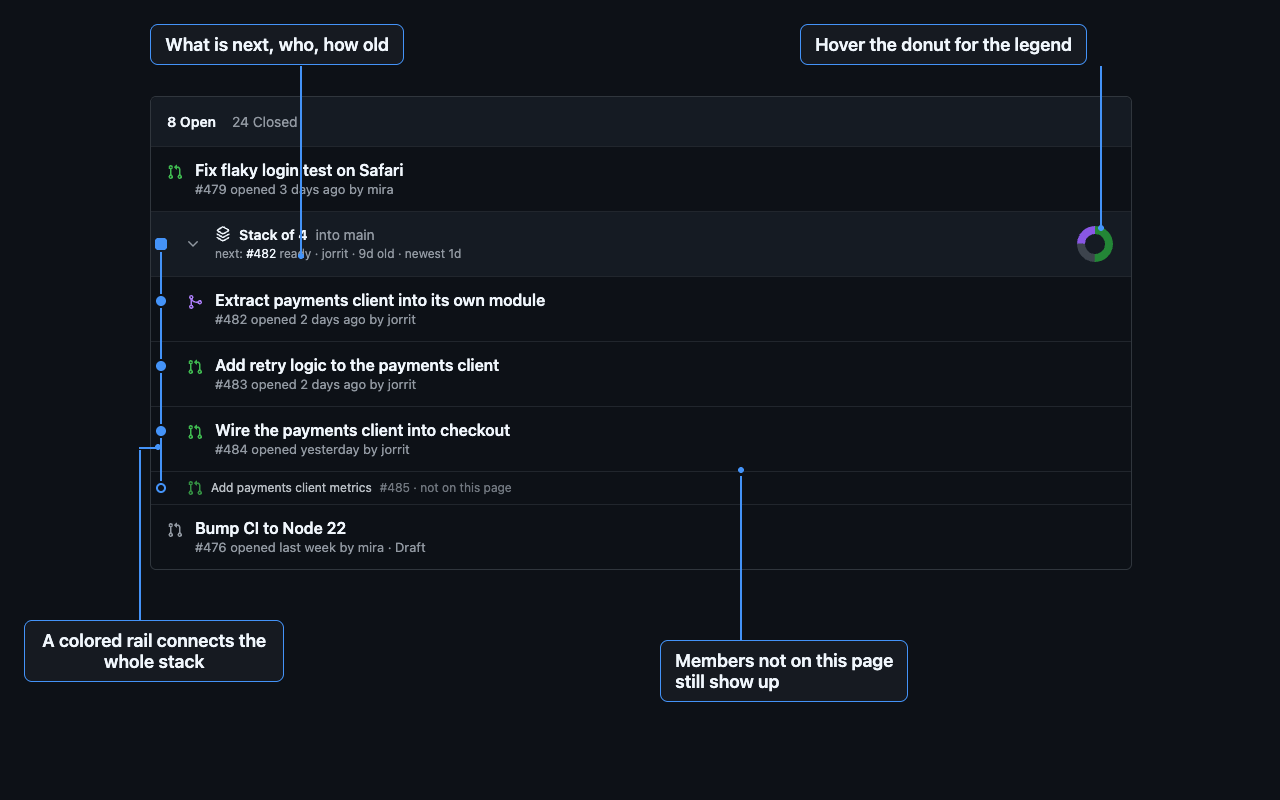
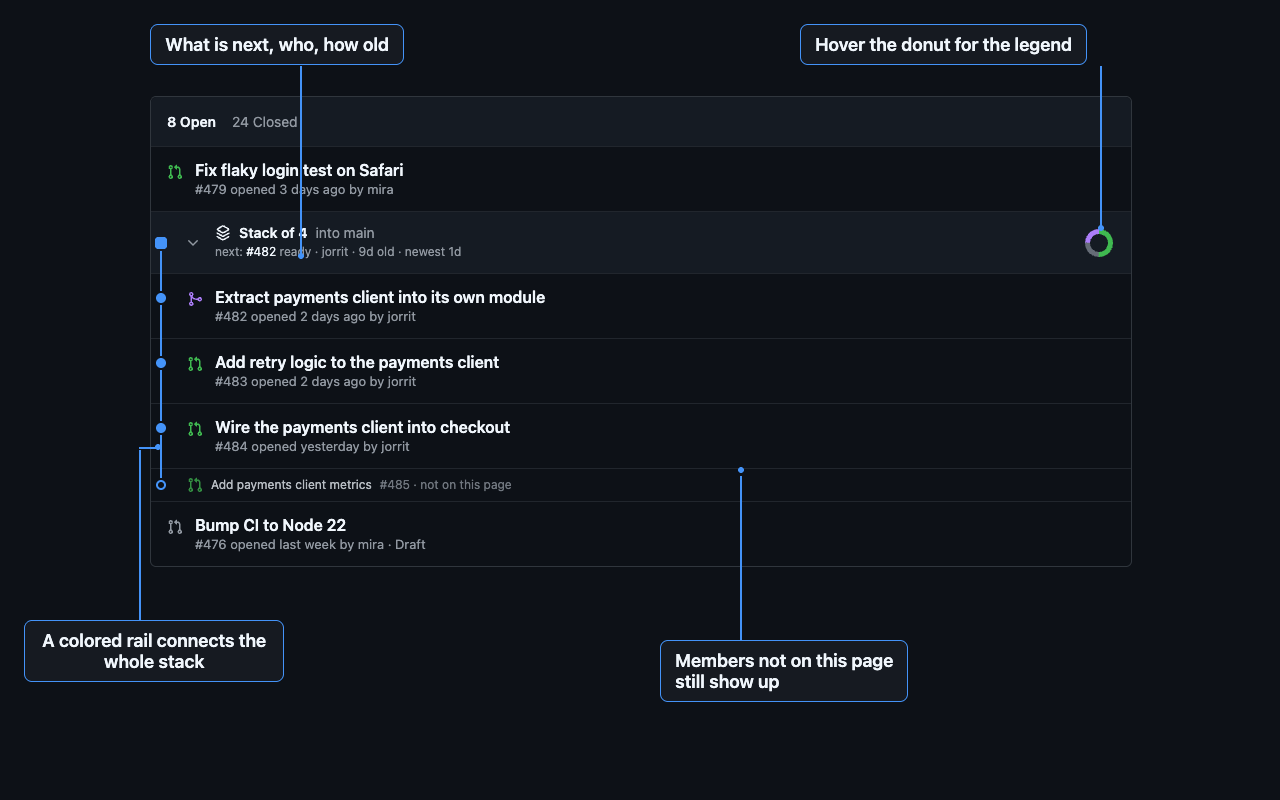
Give the legend its own dot class, and a smaller, brighter ring
The legend's swatch was called ges-dot, which is the rail's own class, so its
background shorthand landed on every rail node and wiped out the stack's
connecting line. It is ges-legend-dot now, and the card is a grid, so dots,
counts and labels line up down their own columns instead of drifting.

The ring drops from 36px to 28px with a 5px stroke, thin enough to sit beside
two lines of text without shouting, and the statuses move from Primer's
bgColor-*-emphasis tokens to the fgColor family - the ones meant to read
against the page rather than sit under white text, so the slices carry on a
dark background.

diff --git a/store/assets.html b/store/assets.html
@@ -47,7 +47,7 @@ section { display: flex; flex-direction: column; gap: 56px; padding: 48px; }
 <span style="display:inline-flex;align-items:center;gap:8px;font-size:14px;font-weight:600;color:#f0f6fc"><svg width="16" height="16" viewBox="0 0 16 16" style="fill:currentColor"><path d="M7.122.392a1.75 1.75 0 0 1 1.756 0l5.003 2.902c.83.481.83 1.68 0 2.162L8.878 8.358a1.75 1.75 0 0 1-1.756 0L2.119 5.456a1.251 1.251 0 0 1 0-2.162ZM8.125 1.69a.248.248 0 0 0-.25 0l-4.63 2.685 4.63 2.685a.248.248 0 0 0 .25 0l4.63-2.685ZM1.601 7.789a.75.75 0 0 1 1.025-.273l5.249 3.044a.248.248 0 0 0 .25 0l5.249-3.044a.75.75 0 0 1 .752 1.298l-5.248 3.044a1.75 1.75 0 0 1-1.756 0L1.874 8.814A.75.75 0 0 1 1.6 7.789Zm0 3.5a.75.75 0 0 1 1.025-.273l5.249 3.044a.248.248 0 0 0 .25 0l5.249-3.044a.75.75 0 0 1 .752 1.298l-5.248 3.044a1.75 1.75 0 0 1-1.756 0l-5.248-3.044a.75.75 0 0 1-.273-1.025Z"></path></svg>Stack of 4<span style="font-weight:400;color:#9198a1"> into main</span></span>
 <div style="display:flex;height:18px;overflow:hidden;font-size:12px;line-height:18px;color:#9198a1"><span>next: <a style="color:#f0f6fc;text-decoration:none">#482</a> ready &middot; jorrit &middot; 9d old &middot; newest 1d</span></div>
 </div>
-<div style="padding:2px"><svg width="36" height="36" viewBox="0 0 36 36" style="display:block"><circle cx="18" cy="18" r="14" fill="none" stroke="#238636" stroke-width="8" stroke-dasharray="43.98 43.98" stroke-dashoffset="0.00" transform="rotate(-90 18 18)"></circle><circle cx="18" cy="18" r="14" fill="none" stroke="#3d444d" stroke-width="8" stroke-dasharray="21.99 65.98" stroke-dashoffset="-43.98" transform="rotate(-90 18 18)"></circle><circle cx="18" cy="18" r="14" fill="none" stroke="#8957e5" stroke-width="8" stroke-dasharray="21.99 65.98" stroke-dashoffset="-65.98" transform="rotate(-90 18 18)"></circle></svg></div>
+<div style="padding:2px"><svg width="28" height="28" viewBox="0 0 28 28" style="display:block"><circle cx="14" cy="14" r="11.5" fill="none" stroke="#3fb950" stroke-width="5" stroke-dasharray="36.13 36.13" stroke-dashoffset="0.00" transform="rotate(-90 14 14)"></circle><circle cx="14" cy="14" r="11.5" fill="none" stroke="#656c76" stroke-width="5" stroke-dasharray="18.06 54.20" stroke-dashoffset="-36.13" transform="rotate(-90 14 14)"></circle><circle cx="14" cy="14" r="11.5" fill="none" stroke="#ab7df8" stroke-width="5" stroke-dasharray="18.06 54.20" stroke-dashoffset="-54.20" transform="rotate(-90 14 14)"></circle></svg></div>
 </div></div>
 <!-- stack rows -->
 <div style="position:relative;display:flex;align-items:flex-start;gap:12px;padding:14px 16px 14px 36px;border-top:1px solid #21262d"><div style="position:absolute;top:0;bottom:0;left:0;width:20px"><span style="position:absolute;left:10px;top:-1px;bottom:calc(100% - 24px);width:2px;margin-left:-1px;background:#4493f8"></span><span style="position:absolute;left:10px;top:24px;bottom:-1px;width:2px;margin-left:-1px;background:#4493f8"></span><span style="position:absolute;left:10px;top:24px;width:10px;height:10px;margin:-5px 0 0 -5px;border-radius:50%;background:#4493f8;box-shadow:0 0 0 2px #0d1117"></span></div><svg width="16" height="16" viewBox="0 0 16 16" style="fill:#ab7df8;flex-shrink:0;margin-top:3px"><path d="M5.45 5.154A4.25 4.25 0 0 0 9.25 7.5h1.378a2.251 2.251 0 1 1 0 1.5H9.25A5.734 5.734 0 0 1 5 7.123v3.505a2.25 2.25 0 1 1-1.5 0V5.372a2.25 2.25 0 1 1 1.95-.218ZM4.25 13.5a.75.75 0 1 0 0-1.5.75.75 0 0 0 0 1.5Zm8.5-4.5a.75.75 0 1 0 0-1.5.75.75 0 0 0 0 1.5ZM5 3.25a.75.75 0 1 0 0 .005V3.25Z"></path></svg><div><a href="#" style="font-size:16px;font-weight:600;color:#f0f6fc">Extract payments client into its own module</a><div style="font-size:13px;color:#9198a1;margin-top:2px">#482 opened 2 days ago by jorrit</div></div></div>
@@ -71,8 +71,8 @@ section { display: flex; flex-direction: column; gap: 56px; padding: 48px; }
 <!-- Shot 2: progress close-up -->
 <div id="screenshot-2-progress" style="width:1280px;height:800px;flex-shrink:0;background:#0d1117;position:relative;overflow:hidden;display:flex;align-items:center;justify-content:center">
 <div style="width:1060px;background:#151b23;border:1px solid #30363d;border-radius:12px;padding:36px 44px;display:flex;flex-direction:column;gap:28px">
-<div style="display:flex;align-items:center;gap:24px"><svg width="28" height="28" viewBox="0 0 16 16" style="fill:#9198a1"><path d="M12.78 5.22a.749.749 0 0 1 0 1.06l-4.25 4.25a.749.749 0 0 1-1.06 0L3.22 6.28a.749.749 0 1 1 1.06-1.06L8 8.939l3.72-3.719a.749.749 0 0 1 1.06 0Z"></path></svg><div style="display:flex;flex-direction:column;gap:6px;flex:1;min-width:0"><span style="display:inline-flex;align-items:center;gap:14px;font-size:30px;font-weight:600;color:#f0f6fc;white-space:nowrap"><svg width="30" height="30" viewBox="0 0 16 16" style="fill:currentColor"><path d="M7.122.392a1.75 1.75 0 0 1 1.756 0l5.003 2.902c.83.481.83 1.68 0 2.162L8.878 8.358a1.75 1.75 0 0 1-1.756 0L2.119 5.456a1.251 1.251 0 0 1 0-2.162ZM8.125 1.69a.248.248 0 0 0-.25 0l-4.63 2.685 4.63 2.685a.248.248 0 0 0 .25 0l4.63-2.685ZM1.601 7.789a.75.75 0 0 1 1.025-.273l5.249 3.044a.248.248 0 0 0 .25 0l5.249-3.044a.75.75 0 0 1 .752 1.298l-5.248 3.044a1.75 1.75 0 0 1-1.756 0L1.874 8.814A.75.75 0 0 1 1.6 7.789Zm0 3.5a.75.75 0 0 1 1.025-.273l5.249 3.044a.248.248 0 0 0 .25 0l5.249-3.044a.75.75 0 0 1 .752 1.298l-5.248 3.044a1.75 1.75 0 0 1-1.756 0l-5.248-3.044a.75.75 0 0 1-.273-1.025Z"></path></svg>Stack of 6<span style="font-weight:400;color:#9198a1"> into main</span></span><div style="display:flex;height:30px;overflow:hidden;font-size:22px;line-height:30px;color:#9198a1"><span>next: <span style="color:#f0f6fc">#482</span> in progress &middot; jorrit +1 &middot; 9d old &middot; newest 1d</span></div></div><div style="flex-shrink:0"><svg width="132" height="132" viewBox="0 0 132 132" style="display:block"><circle cx="66" cy="66" r="51" fill="none" stroke="#da3633" stroke-width="30" stroke-dasharray="53.41 267.04" stroke-dashoffset="0.00" transform="rotate(-90 66 66)"></circle><circle cx="66" cy="66" r="51" fill="none" stroke="#9e6a03" stroke-width="30" stroke-dasharray="53.41 267.04" stroke-dashoffset="-53.41" transform="rotate(-90 66 66)"></circle><circle cx="66" cy="66" r="51" fill="none" stroke="#238636" stroke-width="30" stroke-dasharray="53.41 267.04" stroke-dashoffset="-106.81" transform="rotate(-90 66 66)"></circle><circle cx="66" cy="66" r="51" fill="none" stroke="#656c76" stroke-width="30" stroke-dasharray="53.41 267.04" stroke-dashoffset="-160.22" transform="rotate(-90 66 66)"></circle><circle cx="66" cy="66" r="51" fill="none" stroke="#8957e5" stroke-width="30" stroke-dasharray="106.81 213.63" stroke-dashoffset="-213.63" transform="rotate(-90 66 66)"></circle></svg></div></div>
-<div style="display:flex;align-items:flex-start;gap:32px"><div style="flex:1;font-size:20px;line-height:1.55;color:#9198a1">Merged, ready, in progress, blocked, draft, and the members GitHub left off this page. Hover the donut for the legend, a colour and a count per status.</div><div style="display:flex;flex-direction:column;gap:12px;font-size:22px;color:#f0f6fc;background:#0d1117;border:1px solid #3d444d;border-radius:6px;padding:14px 18px"><span style="display:inline-flex;align-items:center;gap:10px"><span style="width:14px;height:14px;border-radius:50%;background:#8957e5"></span>2 merged</span><span style="display:inline-flex;align-items:center;gap:10px"><span style="width:14px;height:14px;border-radius:50%;background:#238636"></span>1 ready</span><span style="display:inline-flex;align-items:center;gap:10px"><span style="width:14px;height:14px;border-radius:50%;background:#9e6a03"></span>1 in progress</span><span style="display:inline-flex;align-items:center;gap:10px"><span style="width:14px;height:14px;border-radius:50%;background:#da3633"></span>1 blocked</span><span style="display:inline-flex;align-items:center;gap:10px"><span style="width:14px;height:14px;border-radius:50%;background:#656c76"></span>1 draft</span></div></div>
+<div style="display:flex;align-items:center;gap:24px"><svg width="28" height="28" viewBox="0 0 16 16" style="fill:#9198a1"><path d="M12.78 5.22a.749.749 0 0 1 0 1.06l-4.25 4.25a.749.749 0 0 1-1.06 0L3.22 6.28a.749.749 0 1 1 1.06-1.06L8 8.939l3.72-3.719a.749.749 0 0 1 1.06 0Z"></path></svg><div style="display:flex;flex-direction:column;gap:6px;flex:1;min-width:0"><span style="display:inline-flex;align-items:center;gap:14px;font-size:30px;font-weight:600;color:#f0f6fc;white-space:nowrap"><svg width="30" height="30" viewBox="0 0 16 16" style="fill:currentColor"><path d="M7.122.392a1.75 1.75 0 0 1 1.756 0l5.003 2.902c.83.481.83 1.68 0 2.162L8.878 8.358a1.75 1.75 0 0 1-1.756 0L2.119 5.456a1.251 1.251 0 0 1 0-2.162ZM8.125 1.69a.248.248 0 0 0-.25 0l-4.63 2.685 4.63 2.685a.248.248 0 0 0 .25 0l4.63-2.685ZM1.601 7.789a.75.75 0 0 1 1.025-.273l5.249 3.044a.248.248 0 0 0 .25 0l5.249-3.044a.75.75 0 0 1 .752 1.298l-5.248 3.044a1.75 1.75 0 0 1-1.756 0L1.874 8.814A.75.75 0 0 1 1.6 7.789Zm0 3.5a.75.75 0 0 1 1.025-.273l5.249 3.044a.248.248 0 0 0 .25 0l5.249-3.044a.75.75 0 0 1 .752 1.298l-5.248 3.044a1.75 1.75 0 0 1-1.756 0l-5.248-3.044a.75.75 0 0 1-.273-1.025Z"></path></svg>Stack of 6<span style="font-weight:400;color:#9198a1"> into main</span></span><div style="display:flex;height:30px;overflow:hidden;font-size:22px;line-height:30px;color:#9198a1"><span>next: <span style="color:#f0f6fc">#482</span> in progress &middot; jorrit +1 &middot; 9d old &middot; newest 1d</span></div></div><div style="flex-shrink:0"><svg width="132" height="132" viewBox="0 0 132 132" style="display:block"><circle cx="66" cy="66" r="54" fill="none" stroke="#f85149" stroke-width="24" stroke-dasharray="56.55 282.75" stroke-dashoffset="0.00" transform="rotate(-90 66 66)"></circle><circle cx="66" cy="66" r="54" fill="none" stroke="#d29922" stroke-width="24" stroke-dasharray="56.55 282.75" stroke-dashoffset="-56.55" transform="rotate(-90 66 66)"></circle><circle cx="66" cy="66" r="54" fill="none" stroke="#3fb950" stroke-width="24" stroke-dasharray="56.55 282.75" stroke-dashoffset="-113.09" transform="rotate(-90 66 66)"></circle><circle cx="66" cy="66" r="54" fill="none" stroke="#9198a1" stroke-width="24" stroke-dasharray="56.55 282.75" stroke-dashoffset="-169.64" transform="rotate(-90 66 66)"></circle><circle cx="66" cy="66" r="54" fill="none" stroke="#ab7df8" stroke-width="24" stroke-dasharray="113.09 226.20" stroke-dashoffset="-226.20" transform="rotate(-90 66 66)"></circle></svg></div></div>
+<div style="display:flex;align-items:flex-start;gap:32px"><div style="flex:1;font-size:20px;line-height:1.55;color:#9198a1">Merged, ready, in progress, blocked, draft, and the members GitHub left off this page. Hover the donut for the legend, a colour and a count per status.</div><div style="display:grid;grid-template-columns:auto auto auto;align-items:center;gap:8px 14px;font-size:22px;color:#f0f6fc;background:#0d1117;border:1px solid #3d444d;border-radius:6px;padding:14px 18px"><span style="width:14px;height:14px;border-radius:50%;background:#ab7df8"></span><span style="justify-self:end">2</span><span style="color:#9198a1">merged</span><span style="width:14px;height:14px;border-radius:50%;background:#3fb950"></span><span style="justify-self:end">1</span><span style="color:#9198a1">ready</span><span style="width:14px;height:14px;border-radius:50%;background:#d29922"></span><span style="justify-self:end">1</span><span style="color:#9198a1">in progress</span><span style="width:14px;height:14px;border-radius:50%;background:#f85149"></span><span style="justify-self:end">1</span><span style="color:#9198a1">blocked</span><span style="width:14px;height:14px;border-radius:50%;background:#9198a1"></span><span style="justify-self:end">1</span><span style="color:#9198a1">draft</span></div></div>
 </div>
 <div style="position:absolute;top:120px;left:110px;background:rgba(22,27,34,0.95);border:1px solid #4493f8;border-radius:8px;padding:9px 14px;font-size:18px;font-weight:600;color:#f0f6fc">Every stack header shows where the stack stands</div>
 <div style="position:absolute;bottom:110px;right:130px;background:rgba(22,27,34,0.95);border:1px solid #4493f8;border-radius:8px;padding:9px 14px;font-size:18px;font-weight:600;color:#f0f6fc">Ready = no requested changes, no failing checks, not a draft</div>
@@ -90,7 +90,7 @@ section { display: flex; flex-direction: column; gap: 56px; padding: 48px; }
 <span style="display:inline-flex;align-items:center;gap:8px;font-size:14px;font-weight:600;color:#f0f6fc"><svg width="16" height="16" viewBox="0 0 16 16" style="fill:currentColor"><path d="M7.122.392a1.75 1.75 0 0 1 1.756 0l5.003 2.902c.83.481.83 1.68 0 2.162L8.878 8.358a1.75 1.75 0 0 1-1.756 0L2.119 5.456a1.251 1.251 0 0 1 0-2.162ZM8.125 1.69a.248.248 0 0 0-.25 0l-4.63 2.685 4.63 2.685a.248.248 0 0 0 .25 0l4.63-2.685ZM1.601 7.789a.75.75 0 0 1 1.025-.273l5.249 3.044a.248.248 0 0 0 .25 0l5.249-3.044a.75.75 0 0 1 .752 1.298l-5.248 3.044a1.75 1.75 0 0 1-1.756 0L1.874 8.814A.75.75 0 0 1 1.6 7.789Zm0 3.5a.75.75 0 0 1 1.025-.273l5.249 3.044a.248.248 0 0 0 .25 0l5.249-3.044a.75.75 0 0 1 .752 1.298l-5.248 3.044a1.75 1.75 0 0 1-1.756 0l-5.248-3.044a.75.75 0 0 1-.273-1.025Z"></path></svg>Stack of 4<span style="font-weight:400;color:#9198a1"> into main</span></span>
 <div style="display:flex;height:18px;overflow:hidden;font-size:12px;line-height:18px;color:#9198a1"><span>next: <a style="color:#f0f6fc;text-decoration:none">#483</a> ready &middot; jorrit +1 &middot; 6d old &middot; newest 21h</span></div>
 </div>
-<div style="padding:2px"><svg width="36" height="36" viewBox="0 0 36 36" style="display:block"><circle cx="18" cy="18" r="14" fill="none" stroke="#238636" stroke-width="8" stroke-dasharray="65.98 21.99" stroke-dashoffset="0.00" transform="rotate(-90 18 18)"></circle><circle cx="18" cy="18" r="14" fill="none" stroke="#8957e5" stroke-width="8" stroke-dasharray="21.99 65.98" stroke-dashoffset="-65.98" transform="rotate(-90 18 18)"></circle></svg></div>
+<div style="padding:2px"><svg width="28" height="28" viewBox="0 0 28 28" style="display:block"><circle cx="14" cy="14" r="11.5" fill="none" stroke="#3fb950" stroke-width="5" stroke-dasharray="54.20 18.06" stroke-dashoffset="0.00" transform="rotate(-90 14 14)"></circle><circle cx="14" cy="14" r="11.5" fill="none" stroke="#ab7df8" stroke-width="5" stroke-dasharray="18.06 54.20" stroke-dashoffset="-54.20" transform="rotate(-90 14 14)"></circle></svg></div>
 </div></div>
 <div style="position:relative;padding:12px 16px 12px 36px;border-top:1px solid #21262d;background:#151b23;font-size:13px;color:#9198a1">
 <div style="position:absolute;top:0;bottom:0;left:0;width:20px"><span style="position:absolute;left:10px;top:50%;width:12px;height:12px;margin:-6px 0 0 -6px;border-radius:3px;background:#ab7df8;box-shadow:0 0 0 2px #151b23"></span></div>
@@ -100,7 +100,7 @@ section { display: flex; flex-direction: column; gap: 56px; padding: 48px; }
 <span style="display:inline-flex;align-items:center;gap:8px;font-size:14px;font-weight:600;color:#f0f6fc"><svg width="16" height="16" viewBox="0 0 16 16" style="fill:currentColor"><path d="M7.122.392a1.75 1.75 0 0 1 1.756 0l5.003 2.902c.83.481.83 1.68 0 2.162L8.878 8.358a1.75 1.75 0 0 1-1.756 0L2.119 5.456a1.251 1.251 0 0 1 0-2.162ZM8.125 1.69a.248.248 0 0 0-.25 0l-4.63 2.685 4.63 2.685a.248.248 0 0 0 .25 0l4.63-2.685ZM1.601 7.789a.75.75 0 0 1 1.025-.273l5.249 3.044a.248.248 0 0 0 .25 0l5.249-3.044a.75.75 0 0 1 .752 1.298l-5.248 3.044a1.75 1.75 0 0 1-1.756 0L1.874 8.814A.75.75 0 0 1 1.6 7.789Zm0 3.5a.75.75 0 0 1 1.025-.273l5.249 3.044a.248.248 0 0 0 .25 0l5.249-3.044a.75.75 0 0 1 .752 1.298l-5.248 3.044a1.75 1.75 0 0 1-1.756 0l-5.248-3.044a.75.75 0 0 1-.273-1.025Z"></path></svg>Stack of 3<span style="font-weight:400;color:#9198a1"> into develop</span></span>
 <div style="display:flex;height:18px;overflow:hidden;font-size:12px;line-height:18px;color:#9198a1"><span>next: <a style="color:#f0f6fc;text-decoration:none">#476</a> draft &middot; mira &middot; 8d old &middot; newest 2d</span></div>
 </div>
-<div style="padding:2px"><svg width="36" height="36" viewBox="0 0 36 36" style="display:block"><circle cx="18" cy="18" r="14" fill="none" stroke="#9e6a03" stroke-width="8" stroke-dasharray="29.32 58.64" stroke-dashoffset="0.00" transform="rotate(-90 18 18)"></circle><circle cx="18" cy="18" r="14" fill="none" stroke="#656c76" stroke-width="8" stroke-dasharray="58.64 29.32" stroke-dashoffset="-29.32" transform="rotate(-90 18 18)"></circle></svg></div>
+<div style="padding:2px"><svg width="28" height="28" viewBox="0 0 28 28" style="display:block"><circle cx="14" cy="14" r="11.5" fill="none" stroke="#d29922" stroke-width="5" stroke-dasharray="24.08 48.17" stroke-dashoffset="0.00" transform="rotate(-90 14 14)"></circle><circle cx="14" cy="14" r="11.5" fill="none" stroke="#9198a1" stroke-width="5" stroke-dasharray="48.17 24.08" stroke-dashoffset="-24.08" transform="rotate(-90 14 14)"></circle></svg></div>
 </div></div>
 <div style="position:relative;display:flex;align-items:flex-start;gap:12px;padding:14px 16px;border-top:1px solid #21262d"><svg width="16" height="16" viewBox="0 0 16 16" style="fill:#3fb950;flex-shrink:0;margin-top:3px"><path d="M1.5 3.25a2.25 2.25 0 1 1 3 2.122v5.256a2.251 2.251 0 1 1-1.5 0V5.372A2.25 2.25 0 0 1 1.5 3.25Zm5.677-.177L9.573.677A.25.25 0 0 1 10 .854V2.5h1A2.5 2.5 0 0 1 13.5 5v5.628a2.251 2.251 0 1 1-1.5 0V5a1 1 0 0 0-1-1h-1v1.646a.25.25 0 0 1-.427.177L7.177 3.427a.25.25 0 0 1 0-.354ZM3.75 2.5a.75.75 0 1 0 0 1.5.75.75 0 0 0 0-1.5Zm0 9.5a.75.75 0 1 0 0 1.5.75.75 0 0 0 0-1.5Zm8.25.75a.75.75 0 1 0 1.5 0 .75.75 0 0 0-1.5 0Z"></path></svg><div><a href="#" style="font-size:16px;font-weight:600;color:#f0f6fc">Fix flaky login test on Safari</a><div style="font-size:13px;color:#9198a1;margin-top:2px">#479 opened 3 days ago by mira</div></div></div>
 </div>
@@ -142,7 +142,7 @@ section { display: flex; flex-direction: column; gap: 56px; padding: 48px; }
 <span style="display:inline-flex;align-items:center;gap:8px;font-size:14px;font-weight:600;color:#f0f6fc"><svg width="16" height="16" viewBox="0 0 16 16" style="fill:currentColor"><path d="M7.122.392a1.75 1.75 0 0 1 1.756 0l5.003 2.902c.83.481.83 1.68 0 2.162L8.878 8.358a1.75 1.75 0 0 1-1.756 0L2.119 5.456a1.251 1.251 0 0 1 0-2.162ZM8.125 1.69a.248.248 0 0 0-.25 0l-4.63 2.685 4.63 2.685a.248.248 0 0 0 .25 0l4.63-2.685ZM1.601 7.789a.75.75 0 0 1 1.025-.273l5.249 3.044a.248.248 0 0 0 .25 0l5.249-3.044a.75.75 0 0 1 .752 1.298l-5.248 3.044a1.75 1.75 0 0 1-1.756 0L1.874 8.814A.75.75 0 0 1 1.6 7.789Zm0 3.5a.75.75 0 0 1 1.025-.273l5.249 3.044a.248.248 0 0 0 .25 0l5.249-3.044a.75.75 0 0 1 .752 1.298l-5.248 3.044a1.75 1.75 0 0 1-1.756 0l-5.248-3.044a.75.75 0 0 1-.273-1.025Z"></path></svg>Stack of 3<span style="font-weight:400;color:#9198a1"> into main</span></span>
 <div style="display:flex;height:18px;overflow:hidden;font-size:12px;line-height:18px;color:#9198a1"><span>next: <a style="color:#f0f6fc;text-decoration:none">#484</a> ready &middot; jorrit &middot; 5d old &middot; newest 1d</span></div>
 </div>
-<div style="padding:2px"><svg width="36" height="36" viewBox="0 0 36 36" style="display:block"><circle cx="18" cy="18" r="14" fill="none" stroke="#238636" stroke-width="8" stroke-dasharray="58.64 29.32" stroke-dashoffset="0.00" transform="rotate(-90 18 18)"></circle><circle cx="18" cy="18" r="14" fill="none" stroke="#8957e5" stroke-width="8" stroke-dasharray="29.32 58.64" stroke-dashoffset="-58.64" transform="rotate(-90 18 18)"></circle></svg></div>
+<div style="padding:2px"><svg width="28" height="28" viewBox="0 0 28 28" style="display:block"><circle cx="14" cy="14" r="11.5" fill="none" stroke="#3fb950" stroke-width="5" stroke-dasharray="48.17 24.08" stroke-dashoffset="0.00" transform="rotate(-90 14 14)"></circle><circle cx="14" cy="14" r="11.5" fill="none" stroke="#ab7df8" stroke-width="5" stroke-dasharray="24.08 48.17" stroke-dashoffset="-48.17" transform="rotate(-90 14 14)"></circle></svg></div>
 </div></div>
 <div style="position:relative;display:flex;align-items:flex-start;gap:12px;padding:14px 16px 14px 36px;border-top:1px solid #21262d"><div style="position:absolute;top:0;bottom:0;left:0;width:20px"><span style="position:absolute;left:10px;top:-1px;bottom:calc(100% - 24px);width:2px;margin-left:-1px;background:#4493f8"></span><span style="position:absolute;left:10px;top:24px;bottom:-1px;width:2px;margin-left:-1px;background:#4493f8"></span><span style="position:absolute;left:10px;top:24px;width:10px;height:10px;margin:-5px 0 0 -5px;border-radius:50%;background:#4493f8;box-shadow:0 0 0 2px #0d1117"></span></div><svg width="16" height="16" viewBox="0 0 16 16" style="fill:#ab7df8;flex-shrink:0;margin-top:3px"><path d="M5.45 5.154A4.25 4.25 0 0 0 9.25 7.5h1.378a2.251 2.251 0 1 1 0 1.5H9.25A5.734 5.734 0 0 1 5 7.123v3.505a2.25 2.25 0 1 1-1.5 0V5.372a2.25 2.25 0 1 1 1.95-.218ZM4.25 13.5a.75.75 0 1 0 0-1.5.75.75 0 0 0 0 1.5Zm8.5-4.5a.75.75 0 1 0 0-1.5.75.75 0 0 0 0 1.5ZM5 3.25a.75.75 0 1 0 0 .005V3.25Z"></path></svg><div><span style="font-size:16px;font-weight:600;color:#f0f6fc">Extract payments client into its own module</span><div style="font-size:13px;color:#9198a1;margin-top:2px">#482 · merged</div></div></div>
 <div style="position:relative;display:flex;align-items:flex-start;gap:12px;padding:14px 16px 14px 36px;border-top:1px solid #21262d"><div style="position:absolute;top:0;bottom:0;left:0;width:20px"><span style="position:absolute;left:10px;top:-1px;bottom:calc(100% - 24px);width:2px;margin-left:-1px;background:#4493f8"></span><span style="position:absolute;left:10px;top:24px;bottom:-1px;width:2px;margin-left:-1px;background:#4493f8"></span><span style="position:absolute;left:10px;top:24px;width:10px;height:10px;margin:-5px 0 0 -5px;border-radius:50%;background:#4493f8;box-shadow:0 0 0 2px #0d1117"></span></div><svg width="16" height="16" viewBox="0 0 16 16" style="fill:#3fb950;flex-shrink:0;margin-top:3px"><path d="M1.5 3.25a2.25 2.25 0 1 1 3 2.122v5.256a2.251 2.251 0 1 1-1.5 0V5.372A2.25 2.25 0 0 1 1.5 3.25Zm5.677-.177L9.573.677A.25.25 0 0 1 10 .854V2.5h1A2.5 2.5 0 0 1 13.5 5v5.628a2.251 2.251 0 1 1-1.5 0V5a1 1 0 0 0-1-1h-1v1.646a.25.25 0 0 1-.427.177L7.177 3.427a.25.25 0 0 1 0-.354ZM3.75 2.5a.75.75 0 1 0 0 1.5.75.75 0 0 0 0-1.5Zm0 9.5a.75.75 0 1 0 0 1.5.75.75 0 0 0 0-1.5Zm8.25.75a.75.75 0 1 0 1.5 0 .75.75 0 0 0-1.5 0Z"></path></svg><div><span style="font-size:16px;font-weight:600;color:#f0f6fc">Add retry logic to the payments client</span><div style="font-size:13px;color:#9198a1;margin-top:2px">#483 · ready</div></div></div>

diff --git a/src/content.js b/src/content.js
@@ -11,19 +11,19 @@
   const LEADING_ICON_SELECTOR = '[class*="LeadingContent-module__container"] svg';
   const MAX_CONCURRENT_FETCHES = 3;
   const SVG_NS = "http://www.w3.org/2000/svg";
-  // Outer 36px, 8px ring: the hole stays 20px so the shape still reads as a donut.
-  const DONUT_SIZE = 36;
-  const DONUT_RADIUS = 14;
-  const DONUT_STROKE = 8;
+  // Outer 28px, 5px ring: the hole stays 18px so the shape still reads as a donut.
+  const DONUT_SIZE = 28;
+  const DONUT_RADIUS = 11.5;
+  const DONUT_STROKE = 5;
   // Drawn as presentation attributes so the ring survives even if the stylesheet does not load;
   // content.css overrides the stroke with GitHub's own theme variable when it does.
   const STATUS_COLORS = {
-    merged: "#8957e5",
-    ready: "#238636",
-    waiting: "#9e6a03",
-    blocked: "#da3633",
-    draft: "#656c76",
-    unknown: "#3d444d",
+    merged: "#ab7df8",
+    ready: "#3fb950",
+    waiting: "#d29922",
+    blocked: "#f85149",
+    draft: "#9198a1",
+    unknown: "#656c76",
     closed: "#656c76",
   };
   const RETRY_FAILED_AFTER_MS = 60_000;
@@ -320,9 +320,10 @@
     return tooltip;
   }
 
+  // Three cells per status, dropped straight into the card's grid so dots, counts and labels
+  // line up down their own columns.
   function legendRow(status, count) {
-    const row = el("div", "ges-legend-row");
-    const dot = el("span", `ges-dot ges-s-${status}`);
+    const dot = el("span", `ges-legend-dot ges-s-${status}`);
     // The variable is the stylesheet's themed colour, the literal what is left without it, and
     // the size has to come along or there would be nothing for either to colour.
     Object.assign(dot.style, {
@@ -331,16 +332,15 @@
       borderRadius: "50%",
       background: `var(--ges-status, ${STATUS_COLORS[status]})`,
     });
-    row.append(dot, el("span", "ges-legend-count", String(count)), el("span", "ges-legend-label", STATUS_LABELS[status]));
-    return row;
+    return [dot, el("span", "ges-legend-count", String(count)), el("span", "ges-legend-label", STATUS_LABELS[status])];
   }
 
   function showTooltip(owner) {
     const counts = owner.gesCounts;
     if (!counts) return;
     const node = tooltipNode();
-    node.replaceChildren(...core.STATUSES.filter((s) => counts[s] > 0).map((s) => legendRow(s, counts[s])));
-    node.style.display = "block";
+    node.replaceChildren(...core.STATUSES.filter((s) => counts[s] > 0).flatMap((s) => legendRow(s, counts[s])));
+    node.style.display = "grid";
     // Under the donut and right-aligned with it, flipped above when the row sits low.
     const anchor = owner.getBoundingClientRect();
     const box = node.getBoundingClientRect();

diff --git a/src/content.css b/src/content.css
@@ -210,8 +210,12 @@ ul[data-ges-active] > li.ges-synthetic > .ges-body {
   padding-left: 12px;
 }
 
-/* The donut's legend: one row per status, in its own colour. Positioned in content.js. */
+/* The donut's legend: one row per status, in its own colour. Positioned in content.js, which
+   also switches the grid on, so the three columns line up across every row. */
 .ges-tooltip {
+  grid-template-columns: auto auto auto;
+  align-items: center;
+  gap: 4px 8px;
   padding: 8px 10px;
   border: 1px solid var(--borderColor-default, #3d444d);
   border-radius: 6px;
@@ -223,23 +227,12 @@ ul[data-ges-active] > li.ges-synthetic > .ges-body {
   white-space: nowrap;
 }
 
-.ges-legend-row {
-  display: flex;
-  align-items: center;
-  gap: 8px;
-}
-
-.ges-dot {
-  flex-shrink: 0;
-  width: 8px;
-  height: 8px;
-  border-radius: 50%;
+.ges-legend-dot {
   background: var(--ges-status);
 }
 
 .ges-legend-count {
-  min-width: 2ch;
-  text-align: right;
+  justify-self: end;
   font-variant-numeric: tabular-nums;
 }
 
@@ -252,13 +245,13 @@ ul[data-ges-active] > li.ges-synthetic > .ges-body {
   stroke: var(--ges-status);
 }
 
-.ges-s-merged { --ges-status: var(--bgColor-done-emphasis, #8957e5); }
-.ges-s-ready { --ges-status: var(--bgColor-success-emphasis, #238636); }
-.ges-s-waiting { --ges-status: var(--bgColor-attention-emphasis, #9e6a03); }
-.ges-s-blocked { --ges-status: var(--bgColor-danger-emphasis, #da3633); }
-.ges-s-draft { --ges-status: var(--bgColor-neutral-emphasis, #656c76); }
-.ges-s-unknown { --ges-status: var(--borderColor-default, #3d444d); }
-.ges-s-closed { --ges-status: var(--bgColor-neutral-muted, #656c7633); }
+.ges-s-merged { --ges-status: var(--fgColor-done, #ab7df8); }
+.ges-s-ready { --ges-status: var(--fgColor-success, #3fb950); }
+.ges-s-waiting { --ges-status: var(--fgColor-attention, #d29922); }
+.ges-s-blocked { --ges-status: var(--fgColor-danger, #f85149); }
+.ges-s-draft { --ges-status: var(--fgColor-muted, #9198a1); }
+.ges-s-unknown { --ges-status: var(--fgColor-disabled, #656c76); }
+.ges-s-closed { --ges-status: var(--fgColor-disabled, #656c76); }
 
 .ges-link {
   color: var(--fgColor-default, #f0f6fc);

diff --git a/src/core.js b/src/core.js
@@ -4,8 +4,8 @@
   const STATUSES = ["merged", "ready", "waiting", "blocked", "draft", "unknown", "closed"];
   // Clockwise from 12 o'clock in the donut: what needs attention first, what is done last.
   const RING_ORDER = ["blocked", "waiting", "ready", "draft", "unknown", "merged", "closed"];
-  // A 36px donut draws ~0.24px of arc per degree, so anything under ~8deg is a hairline.
-  const MIN_SLICE_DEGREES = 8;
+  // A 28px donut draws ~0.2px of arc per degree, so anything under ~10deg is a hairline.
+  const MIN_SLICE_DEGREES = 10;
 
   function parseStackLabel(label) {
     const match = /position\s+(\d+)\s+of\s+(\d+)/i.exec(label || "");

diff --git a/README.md b/README.md
@@ -3,7 +3,7 @@
 Browser extension for Chrome and Firefox that groups [stacked pull requests](https://docs.github.com/en/pull-requests/how-tos/stacked-pull-requests) in GitHub's pull request lists.
 
 - **Always grouped**: stack members are shown together under a stack header, even if other PRs sat between them. Open members that aren't on the current page (pagination, filters) show up as compact placeholder rows.
-- **Progress**: a donut on the right of the header splits the stack into merged, ready, in progress, blocked, draft, closed and not on this page. Hover it for a legend: the colour, the count and the status, one per line. Slices thinner than 8 degrees are drawn at 8, so one blocked PR in a stack of twenty stays visible.
+- **Progress**: a donut on the right of the header splits the stack into merged, ready, in progress, blocked, draft, closed and not on this page. Hover it for a legend: the colour, the count and the status, one per line. Slices thinner than 10 degrees are drawn at 10, so one blocked PR in a stack of twenty stays visible.
 - **At a glance**: under *Stack of X into Y* the header shows what to do next (the lowest member that has not merged), who the stack belongs to, and how old it is - oldest and newest member. The line is one row tall, so on a narrow window it drops items from the right, keeping the next action.
 - **Fold**: click a stack header to fold or unfold it. The toolbar popup has a *Fold stacks by default* setting.
 - **Rail**: a colored line connects the members; hover a row to highlight its whole stack.
